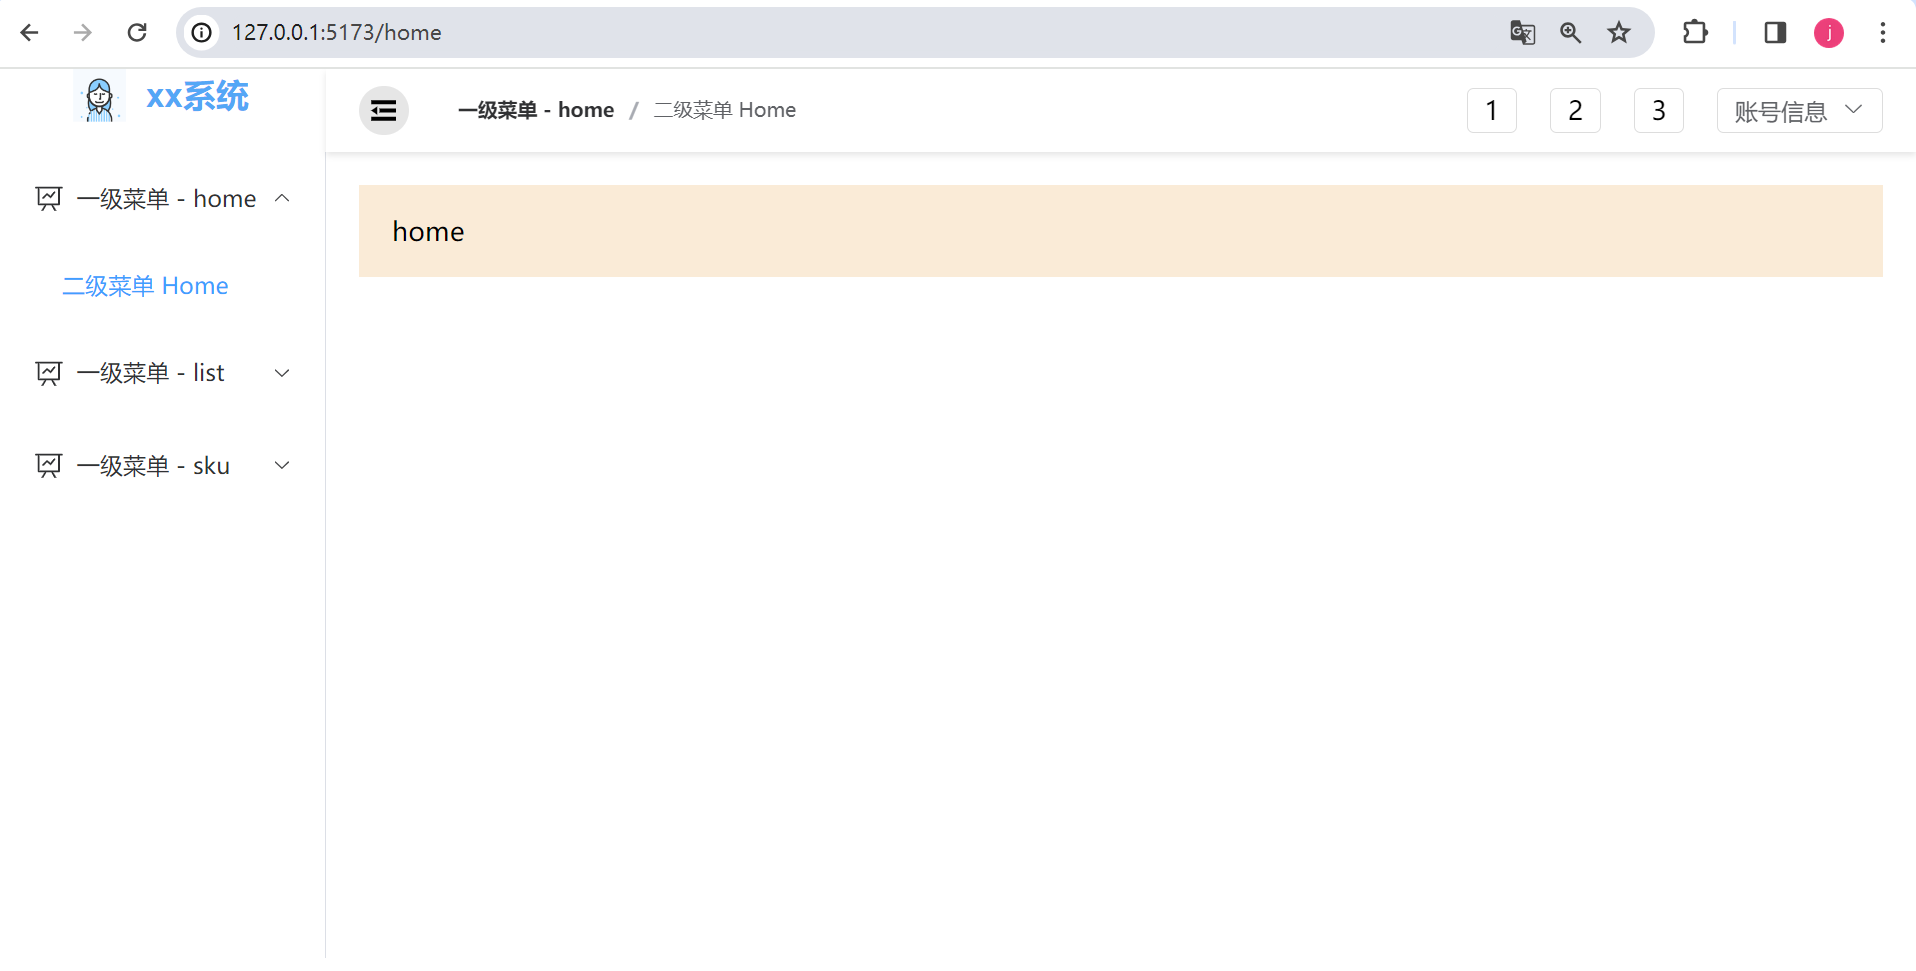
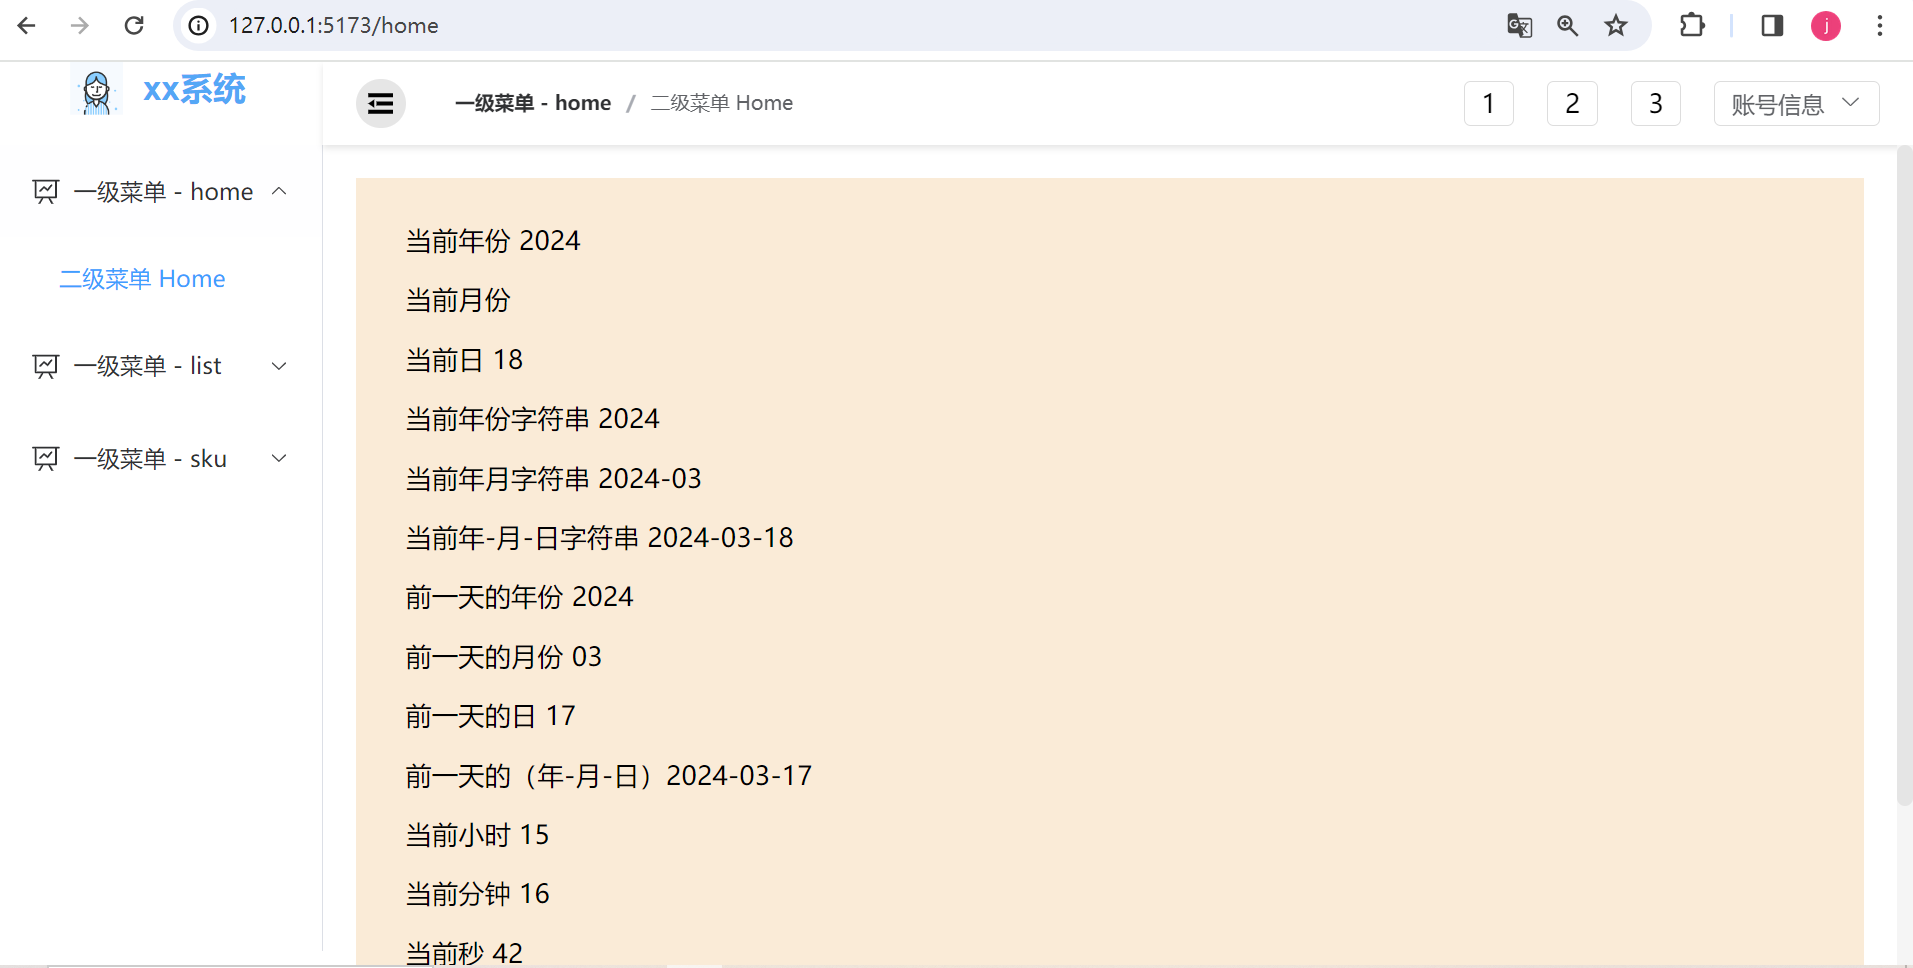
更新主页

diff --git a/src/views/Home/index.vue b/src/views/Home/index.vue
@@ -1,27 +1,49 @@
 <script setup>
-import {ref, reactive, computed } from "vue";
+import { ref, reactive, computed } from "vue";
+import { dayDate, year, day, yearDate, formattedDate, previousYear, previousMonth, previousDay, lastDayDate, hour, minutes, seconds, hms, ymdhms } from 'get-year-month-day-hour-minute-second'
+
 </script>
 
 <template>
   <div class="container">
     <div class="row">
-        <div class="col-md-12">
-            <div class="card">
-                <div class="card-header">
-                    <h3 class="card-title"> home</h3>
-                </div>
-            </div>
+      <div class="col-md-12">
+        <div class="card">
+           <div class="item"> 当前年份 {{ year }}</div>
+           <div class="item"> 当前月份 {{ month }}</div>
+           <div class="item"> 当前日 {{ day }}</div>
+           <div class="item"> 当前年份字符串 {{ yearDate }}</div>
+           <div class="item"> 当前年月字符串 {{ formattedDate }}</div>
+           <div class="item"> 当前年-月-日字符串 {{ dayDate }}</div>
+           <div class="item"> 前一天的年份 {{ previousYear }}</div>
+           <div class="item"> 前一天的月份 {{ previousMonth }}</div>
+           <div class="item"> 前一天的日 {{ previousDay }}</div>
+           <div class="item"> 前一天的（年-月-日）{{ lastDayDate }}</div>
+           <div class="item"> 当前小时 {{ hour }}</div>
+           <div class="item"> 当前分钟 {{ minutes }}</div>
+           <div class="item"> 当前秒 {{ seconds }}</div>
+           <div class="item"> 时分秒 {{ hms }}</div>
+           <div class="item"> 年月日时分秒 {{ ymdhms }}</div>
+          </div>
         </div>
+      </div>
     </div>
-  </div>
+
 </template>
 
 <style scoped lang="scss">
 .container {
-    padding: 20px;
-    background-color: antiquewhite;
-    
+  padding: 20px;
+  background-color: antiquewhite;
 }
-
+.card{
+    display: flex;
+    // 上下分布
+    flex-direction: column;
+    .item{
+        margin: 10px;
+    }
+    }
+    
 
 </style>

diff --git a/README.md b/README.md
@@ -1,6 +1,6 @@
 # 后台管理系统简介
 
-欢迎使用后台管理系统！这个开源项目旨在提供一个简洁、高效的后台管理解决方案。以下是一些关于该系统的重要信息：
+本项目采用`vue3 + vite4 + element-plus + scss + pinia2 + vue-route4`，提供了一个简洁、高效的后台管理系统！这个开源项目旨在提供一个简洁、高效的后台管理解决方案。以下是一些关于该系统的重要信息：
 
 ## 特点和优势
 
@@ -17,7 +17,7 @@
 - **无需联网**：系统完全独立运行，不需要依赖网络或模拟数据。
 
 - **主打简洁与免费**：本项目主打一个简约、易用且免费的后台管理系统，让您专注于业务本身而非繁琐的系统搭建工作。
-
+- **内置年月日插件**：参考[dayjs](https://www.npmjs.com/package/get-year-month-day-hour-minute-second)插件，实现年月日时分秒的获取，无需再手动进行获取。
 ## 如何使用
 
 您可以通过以下步骤开始使用我们的后台管理系统：
